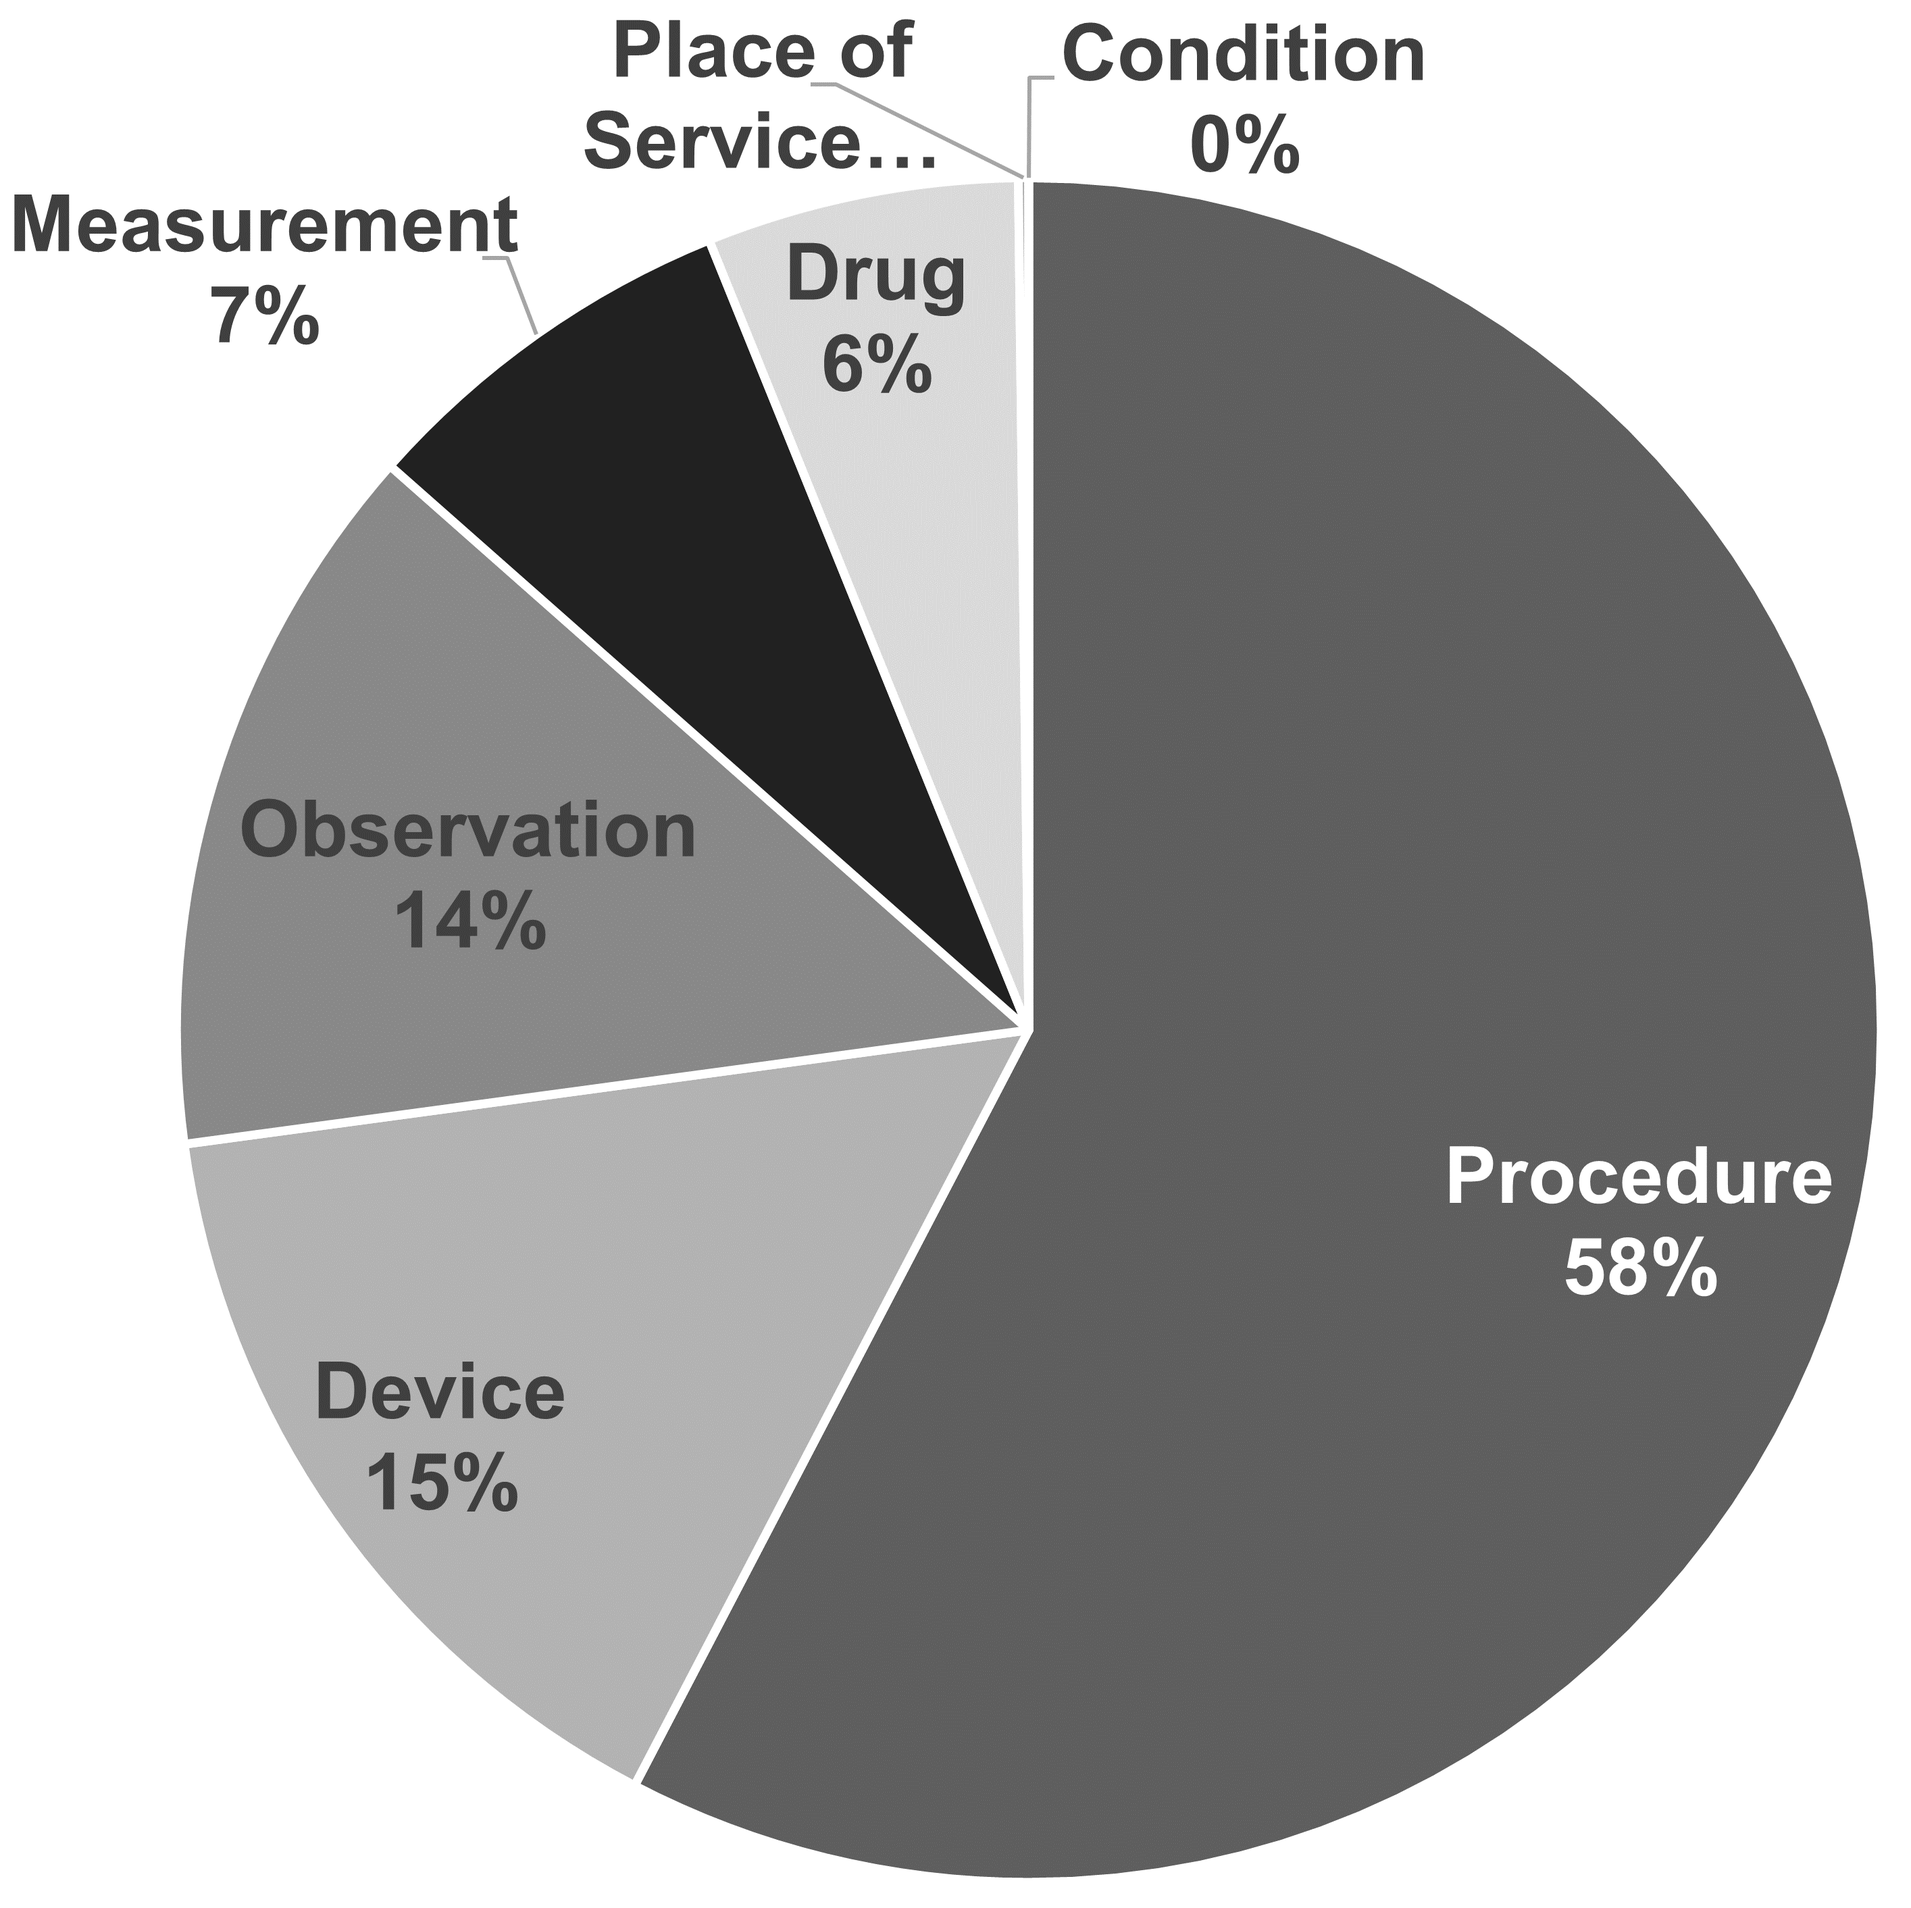
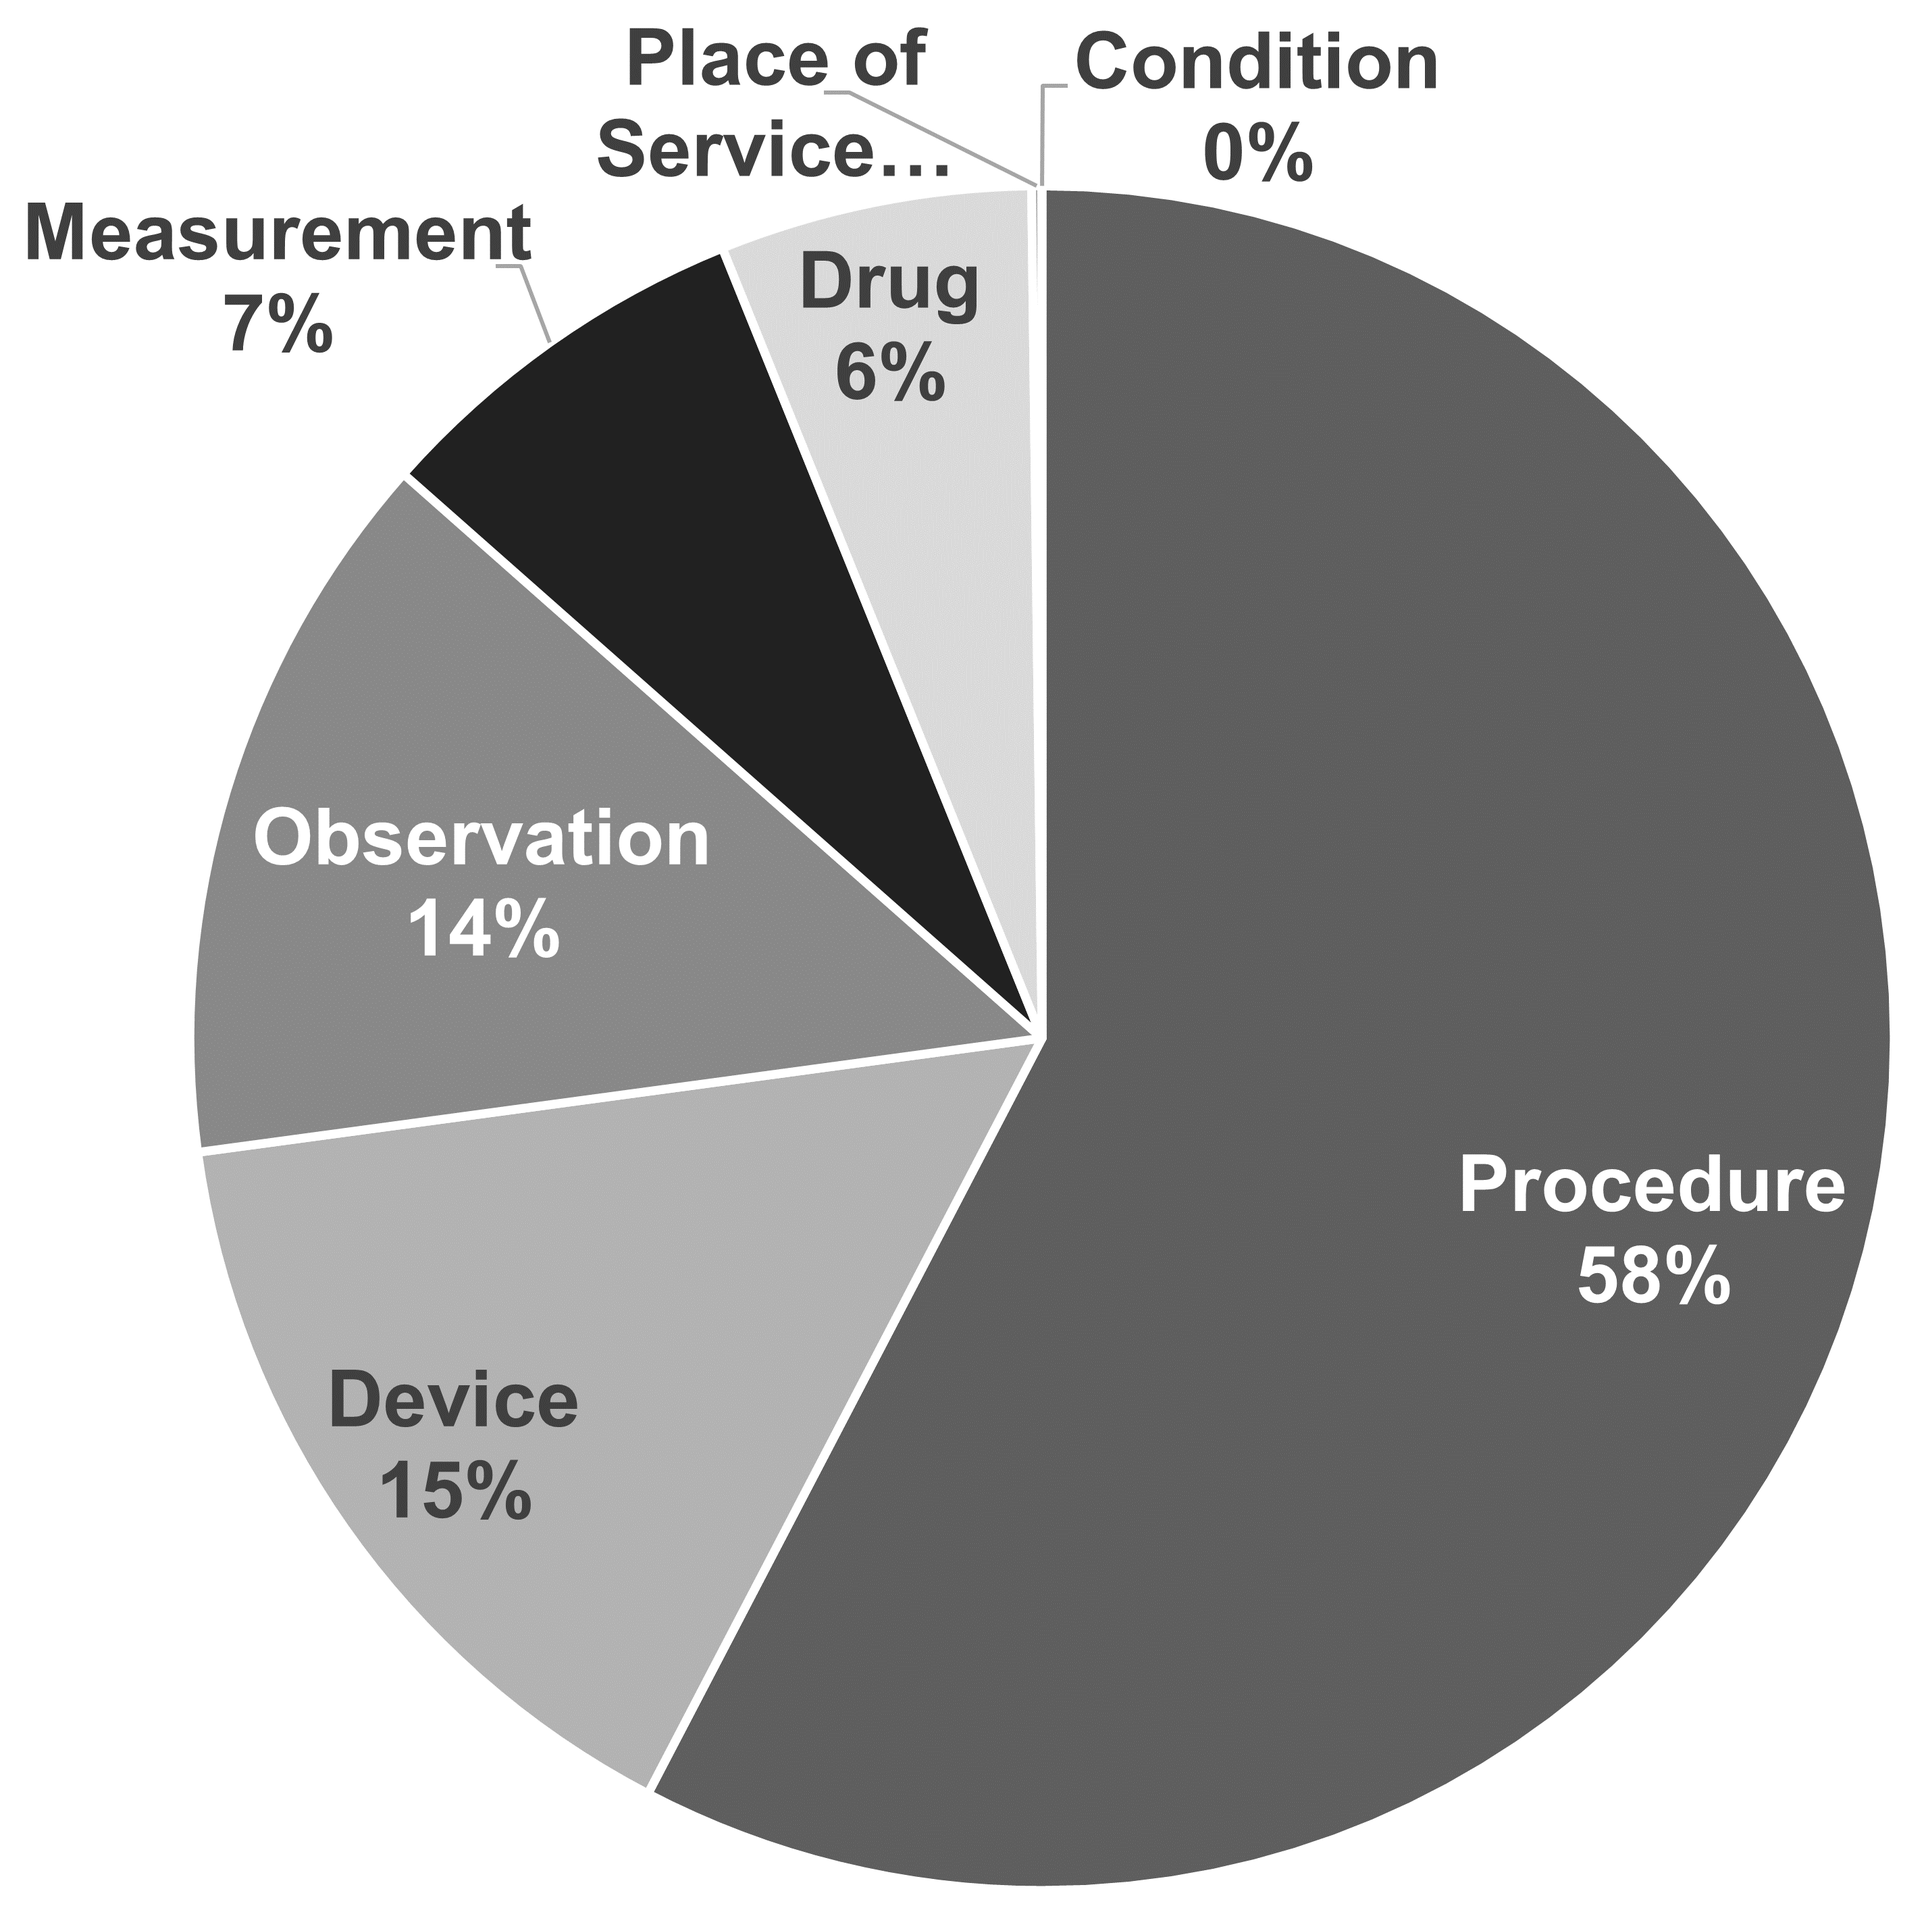
Adding HTML version of book description. Changing figure label to white.

diff --git a/extras/BookDescription.html b/extras/BookDescription.html
@@ -1,0 +1,22 @@
+<html>
+<body>
+
+<p>
+"OHDSI is a brilliant open-science effort that has established a collaboration among more than 150 large organizations. Collectively these organizations carry healthcare data for a staggering half billion lives. OHDSI’s pièce de résistance is its design of an open data model that specifies strict coding, privacy and security standards that all collaborators have agreed to adopt. The work enables the unification of data from multiple sources to provide the data mass, reproducibility testing and statistical power required by analytics, especially those powered by AI methods. The OHDSI effort has already produced novel approaches to large-scale data analyses and answered important clinical questions. However, it is just beginning, and much more remains to be done. The Book of OHDSI will enable other organizations to add to the analytic ferment, and to the data mass, needed to answer pressing analytic and clinical questions." - <b>Clem McDonald</b>, MD, Emeritus Indiana Distinguished Professor of Medicine
+</p>
+<p>
+The prevalence of electronic health data provides us the opportunity to make decisions that enhance both health and healthcare for both the present and future generations. The Observational Health Data Sciences and Informatics (OHDSI) collaboration is on the forefront of that mission.
+</p>
+<p>
+Akin to Odysseus's arduous journey in Homer's epic poem, OHDSI (pronounced "odyssey") is establishing the challenging path from real-world data to real-world evidence. The OHDSI community, an international network of stakeholders from varied disciplines, shares the singular goal of generating this evidence in a collaborative setting.
+</p>
+<p>
+The Book of OHDSI provides the roadmap to understand the journey. You will learn about the OHDSI community and its tools, ranging from the OMOP Common Data Model and Standard Vocabularies to large-scale analytic tools like ATLAS and the Methods Library. You will learn our community-determined best practices to generate quality evidence, and how our methods allow the execution of high-quality, time-efficient research in a network that includes more than 100 databases.
+</p>
+<p>
+The Book of OHDSI is not meant to simply help you understand the journey. We hope that when you learn our approach and see the benefits of fusing collaboration with an always-evolving set of analytic tools, you will choose to <i>Join the Journey</i> with us.
+</p>
+
+
+</body>
+</html>
